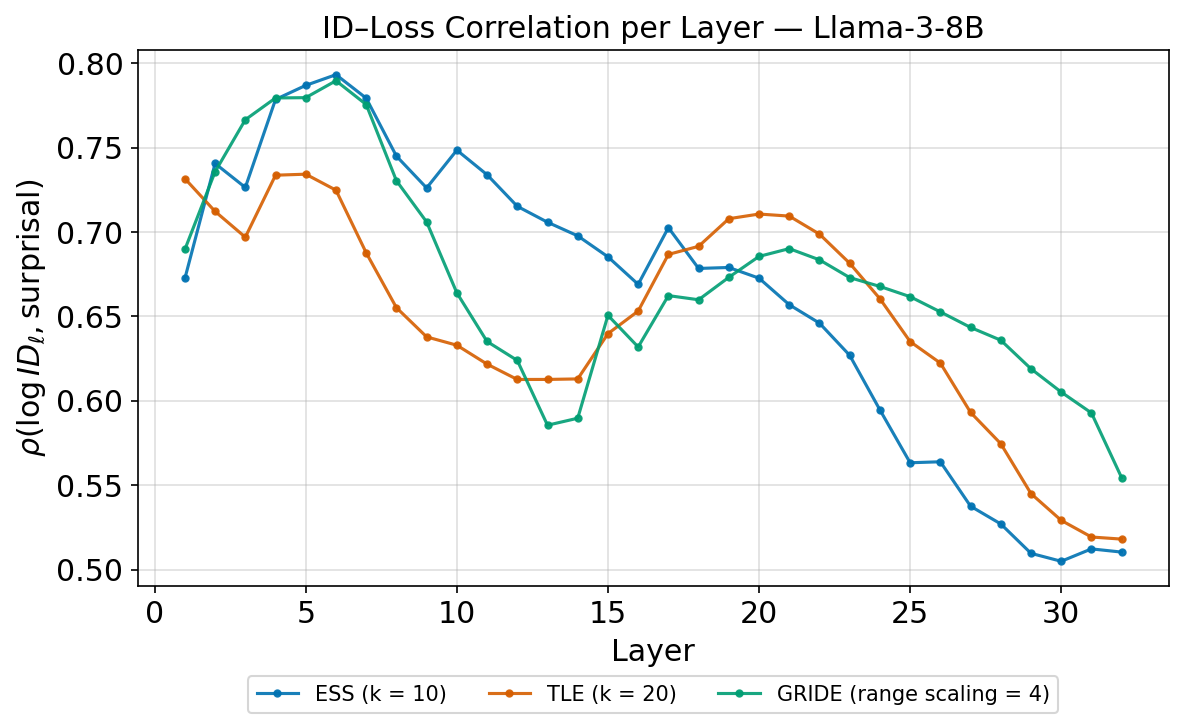
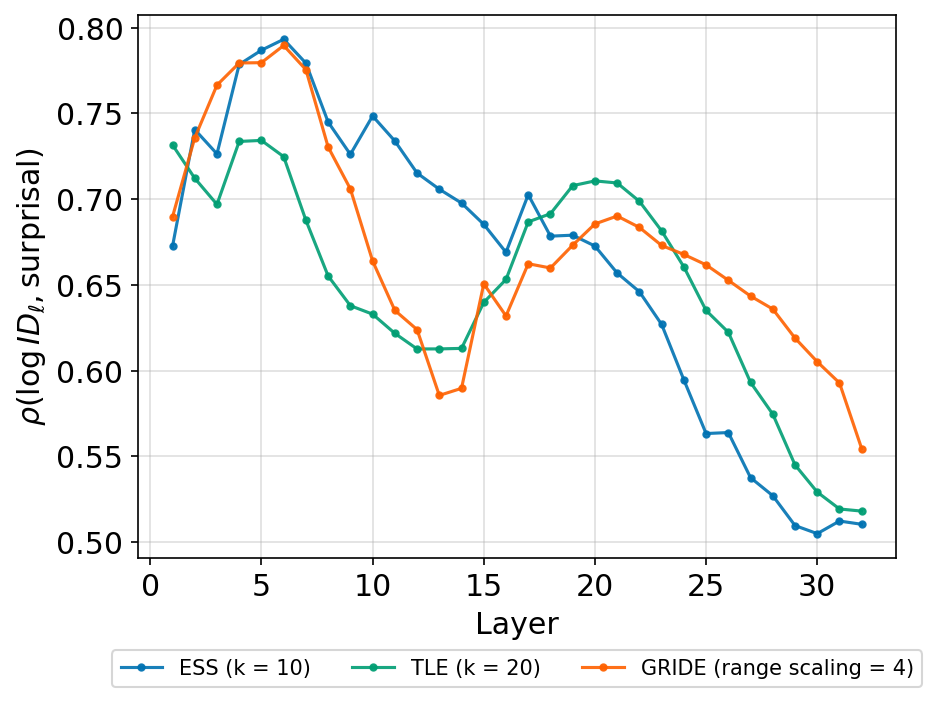
Minor changes

diff --git a/post_process/plot_id_loss_correlation.py b/post_process/plot_id_loss_correlation.py
@@ -8,8 +8,9 @@ from scipy import stats
 # Okabe–Ito colorblind-friendly palette
 CBLIND = {
     "ESS":   "#0072B2",  # blue
-    "TLE":   "#D55E00",  # vermillion
-    "GRIDE": "#009E73",  # green
+    "TLE":   "#009E73",  # vermillion
+    "GRIDE": '#FE6100'
+    
 }
 
 def pearson_per_layer(log_ids: np.ndarray, loss: np.ndarray) -> np.ndarray:
@@ -45,7 +46,7 @@ def main():
 
     os.makedirs(os.path.dirname(args.out), exist_ok=True)
 
-    plt.figure(figsize=(8, 5))
+    # plt.figure(figsize=(8, 5))
 
     # Only show legend labels once (as requested)
     legend_labels = {
@@ -77,7 +78,7 @@ def main():
 
     # Title with model names
     model_title = {"meta-llama/Meta-Llama-3-8B": "Llama-3-8B"}
-    plt.title(f"ID–Loss Correlation per Layer — {model_title[args.model]}", fontsize="x-large")
+    # plt.title(f"ID–Loss Correlation per Layer for {model_title[args.model]}", fontsize="x-large")
 
     plt.ylabel(r"$\rho(\log ID_{\ell}, \mathrm{surprisal})$", fontsize="x-large")
     plt.xlabel("Layer", fontsize="x-large")
@@ -86,7 +87,7 @@ def main():
     plt.legend(loc="upper center", bbox_to_anchor=(0.5, -0.15), ncol=3, fontsize="medium")
     plt.tight_layout()
     plt.savefig(args.out, bbox_inches="tight", dpi=150)
-    print(f"✅ Saved plot to {args.out}")
+    print(f"Saved plot to {args.out}")
 
 # Usage: python -m post_process.plot_id_loss_correlation   --root results   --model "meta-llama/Meta-Llama-3-8B"   --out results/figs/id_loss_correlation_llama_estimators.png
 if __name__ == "__main__":
